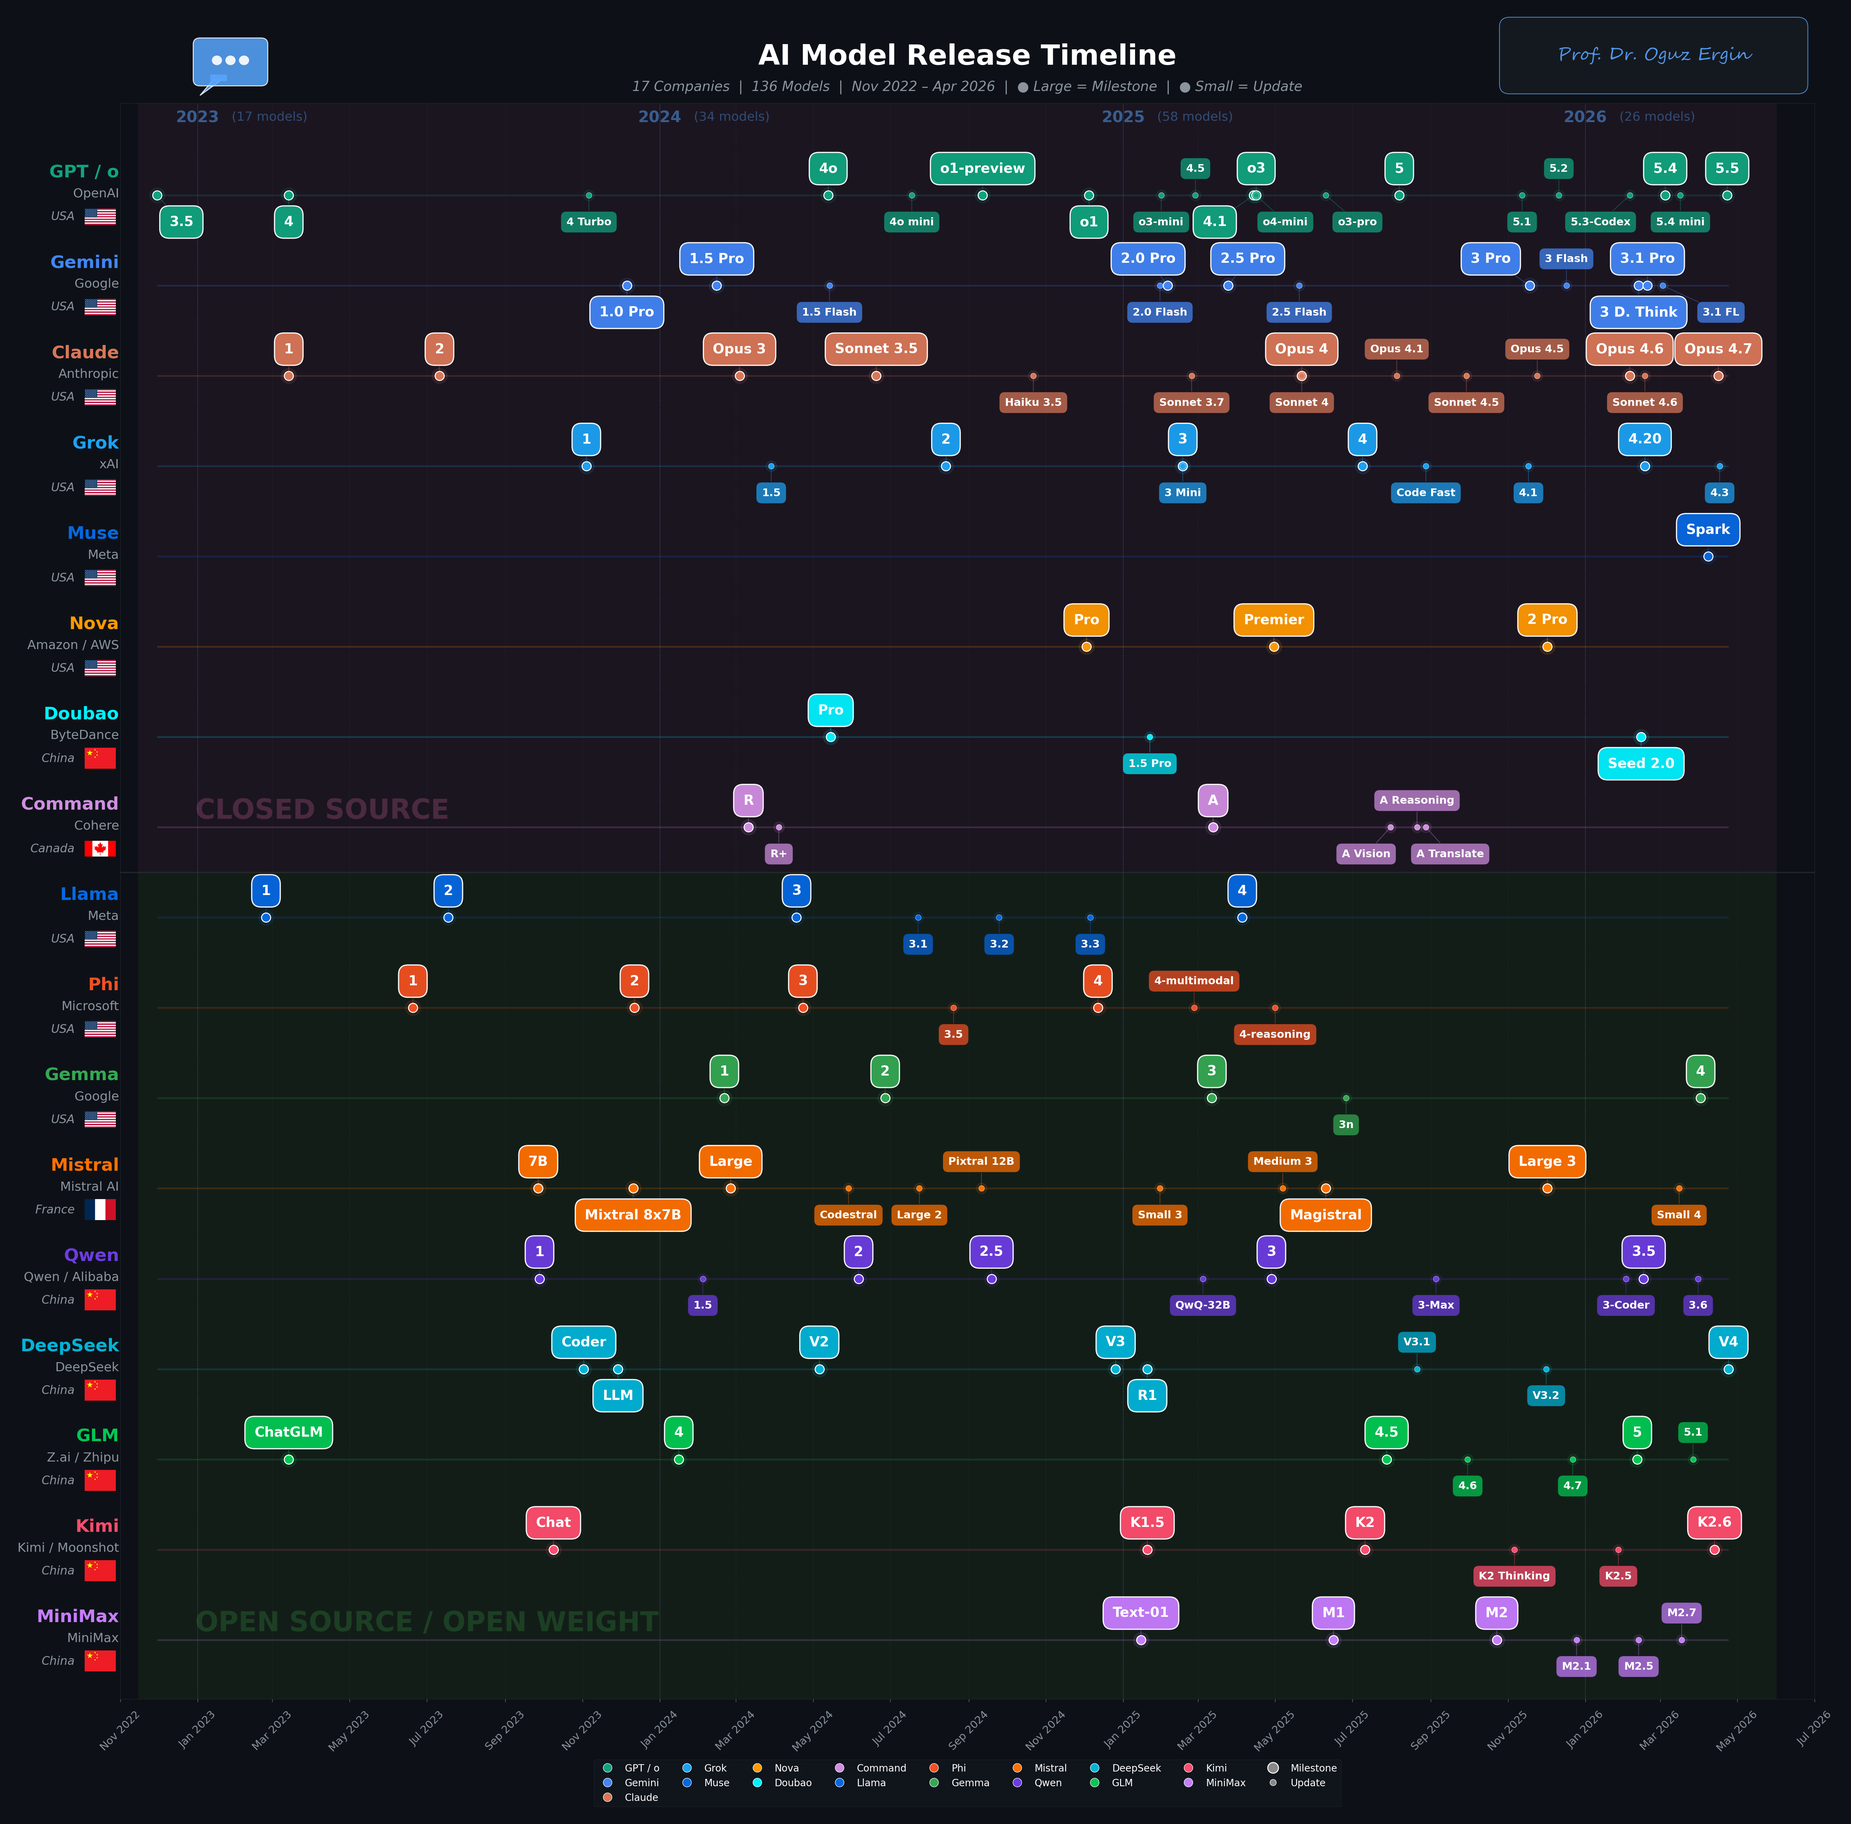
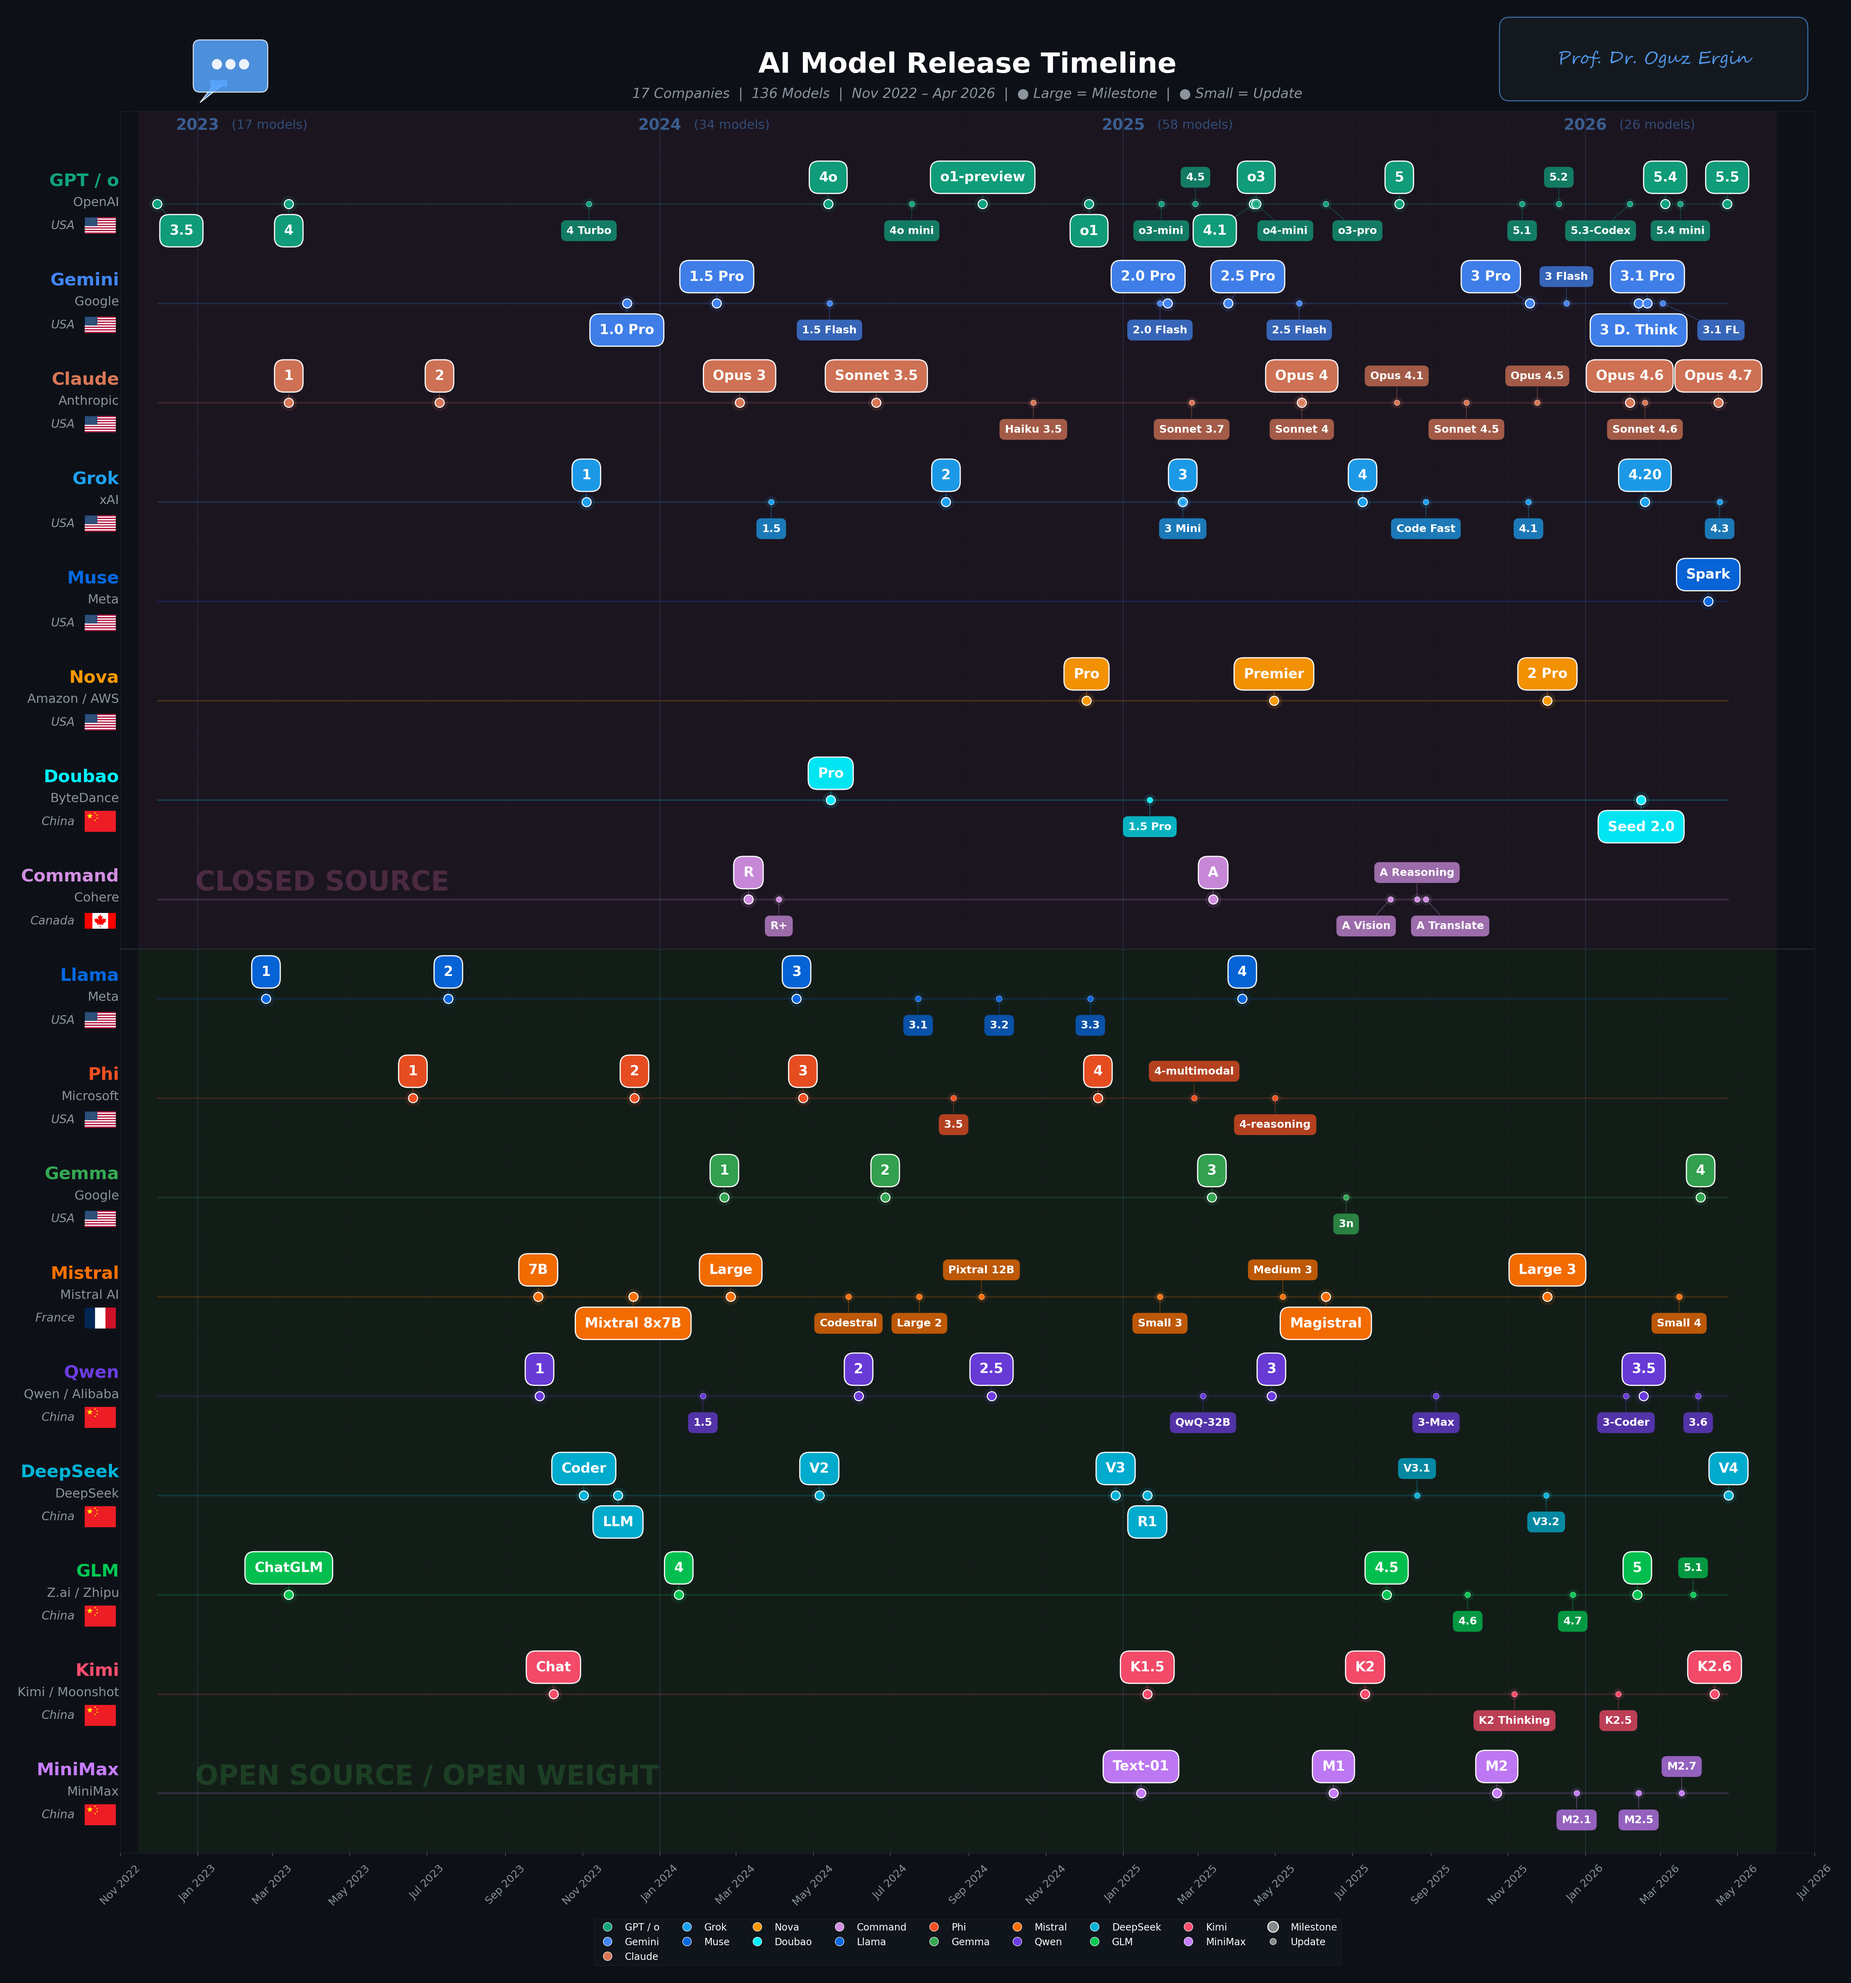
LLM: increase row spacing 2.75->3.0 to match image gen chart

diff --git a/ai_timeline_final.py b/ai_timeline_final.py
@@ -459,12 +459,12 @@ company_order = ["OpenAI", "Google", "Anthropic", "xAI", "Meta Muse", "Amazon", 
                  "Meta", "Microsoft", "Google Gemma", "Mistral",
                  "Qwen", "DeepSeek", "Z.ai", "Kimi", "MiniMax"]
 
-# Vertical spacing: each company gets 2.75 units
-y_positions = {c: (len(company_order) - 1 - i) * 2.75 for i, c in enumerate(company_order)}
+# Vertical spacing: each company gets 3.0 units
+y_positions = {c: (len(company_order) - 1 - i) * 3.0 for i, c in enumerate(company_order)}
 
 # Dark theme
 plt.style.use("dark_background")
-fig, ax = plt.subplots(figsize=(60, 53.75))
+fig, ax = plt.subplots(figsize=(60, 58.5))
 fig.patch.set_facecolor("#0d1117")
 ax.set_facecolor("#0d1117")
 

diff --git a/ai_timeline_final_tr.py b/ai_timeline_final_tr.py
@@ -459,12 +459,12 @@ company_order = ["OpenAI", "Google", "Anthropic", "xAI", "Meta Muse", "Amazon", 
                  "Meta", "Microsoft", "Google Gemma", "Mistral",
                  "Qwen", "DeepSeek", "Z.ai", "Kimi", "MiniMax"]
 
-# Vertical spacing: each company gets 2.75 units
-y_positions = {c: (len(company_order) - 1 - i) * 2.75 for i, c in enumerate(company_order)}
+# Vertical spacing: each company gets 3.0 units
+y_positions = {c: (len(company_order) - 1 - i) * 3.0 for i, c in enumerate(company_order)}
 
 # Dark theme
 plt.style.use("dark_background")
-fig, ax = plt.subplots(figsize=(60, 53.75))
+fig, ax = plt.subplots(figsize=(60, 58.5))
 fig.patch.set_facecolor("#0d1117")
 ax.set_facecolor("#0d1117")
 
